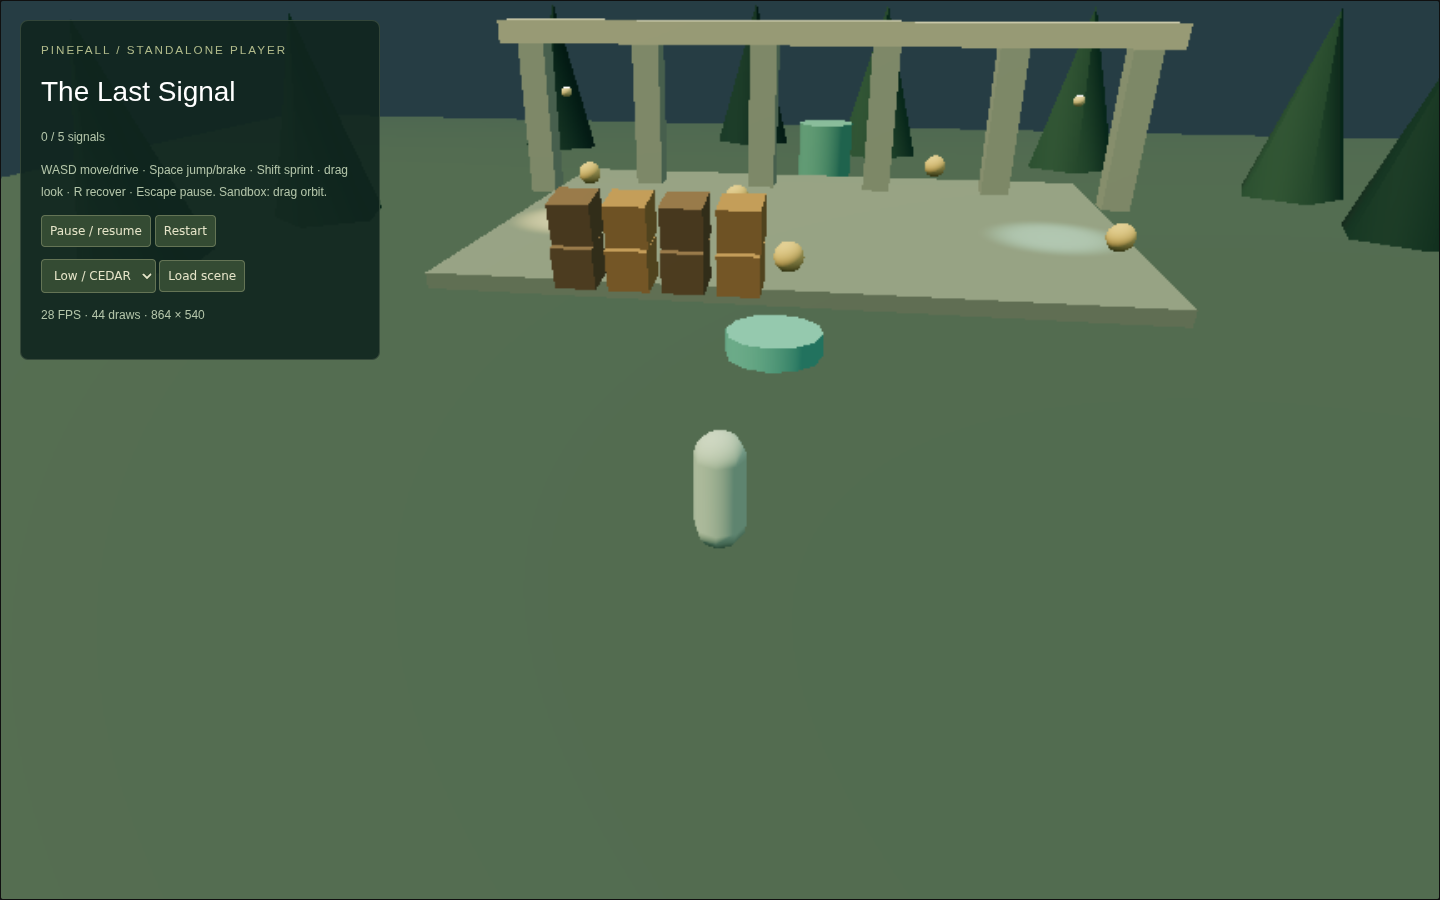
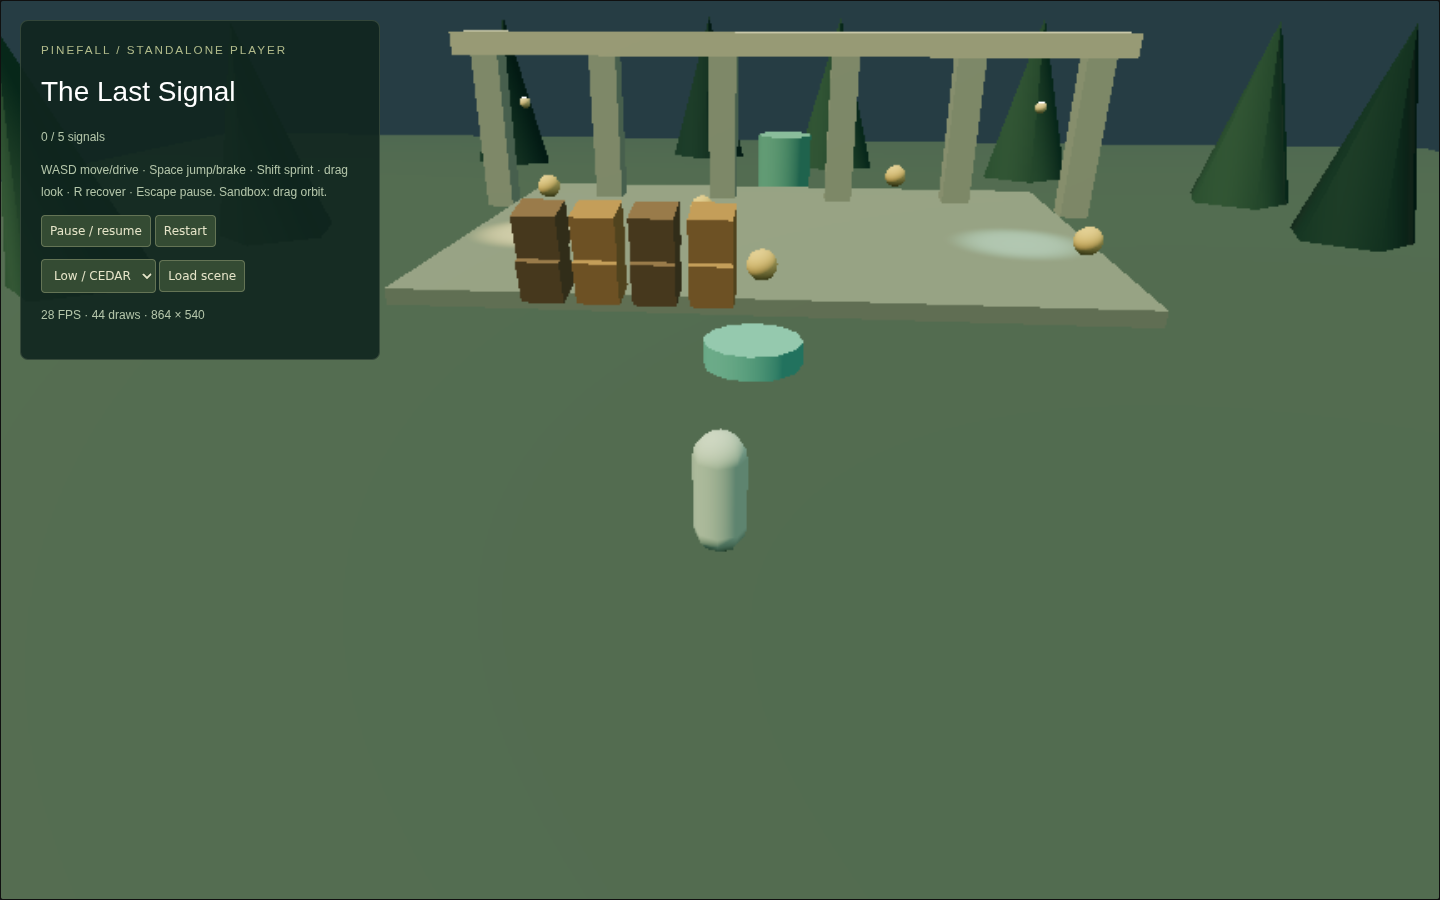
feat: isolate behavior errors, configurable camera rigs, and release CI

Changed region(s): [[0.25, 0.0, 1.0, 0.4356], [0.0, 0.0622, 0.0312, 0.3422], [0.4688, 0.5911, 0.5, 0.6222]]

diff --git a/packages/runtime/src/engine.ts b/packages/runtime/src/engine.ts
@@ -1,3 +1,4 @@
+import { safeBehavior } from "./behavior-safety";
 import * as T from "three";
 import { OrbitControls } from "three/addons/controls/OrbitControls.js";
 import { TransformControls } from "three/addons/controls/TransformControls.js";
@@ -26,7 +27,26 @@ export interface EngineOptions {
   onTransform?: (id: string, transform: Entity["transform"]) => void;
   onStats?: (stats: Stats) => void;
 }
+export type CameraRig = "auto" | "orbit" | "first-person" | "follow" | "vehicle";
 export class Engine {
+  private requestedRig: CameraRig = "auto";
+  get cameraRig(): Exclude<CameraRig, "auto"> {
+    if (this.requestedRig !== "auto") return this.requestedRig;
+    const mode = this.document?.template;
+    return mode === "sandbox"
+      ? "orbit"
+      : mode === "driving"
+        ? "vehicle"
+        : mode === "first-person"
+          ? "first-person"
+          : "follow";
+  }
+  setCameraRig(rig: CameraRig) {
+    this.requestedRig = rig;
+    this.orbit.enabled = !this.playing || this.cameraRig === "orbit";
+    this.events.emit("camera", "Camera rig changed", { rig });
+  }
+
   readonly events = new Events();
   readonly input = new Set<string>();
   readonly objects = new Map<string, T.Group>();
@@ -196,7 +216,7 @@ export class Engine {
         this.options.onSelect?.(this.pick(e.clientX, e.clientY));
     });
     this.listen(window, "pointermove", (event) => {
-      if (!this.playing || this.paused || this.document.template === "sandbox") return;
+      if (!this.playing || this.paused || this.cameraRig === "orbit") return;
       const e = event as PointerEvent;
       if (document.pointerLockElement === this.canvas || this.dragging) {
         this.look.yaw -= e.movementX * 0.003;
@@ -204,7 +224,7 @@ export class Engine {
       }
     });
     this.listen(this.canvas, "dblclick", () => {
-      if (this.playing && this.document.template === "first-person")
+      if (this.playing && this.cameraRig === "first-person")
         void this.canvas
           .requestPointerLock()
           ?.catch(() =>
@@ -421,14 +441,21 @@ export class Engine {
       if (!e.enabled || !e.behavior) continue;
       const factory = this.registry.get(e.behavior);
       if (factory) {
-        const b = factory({ engine: this, entity: e });
+        const b = safeBehavior(factory, { engine: this, entity: e }, (hook, error) =>
+          this.events.emit("error", "Behavior disabled after exception", {
+            entity: e.id,
+            behavior: e.behavior || "",
+            hook,
+            error: String(error).slice(0, 1000),
+          }),
+        );
         this.behaviors.set(e.id, b);
         b.start?.();
       } else this.events.emit("warning", "Behavior not registered: " + e.behavior);
     }
     const player = this.document.entities.find((e) => e.tag === "player");
     if (player) this.checkpoint = [...player.transform.position];
-    this.orbit.enabled = this.document.template === "sandbox";
+    this.orbit.enabled = this.cameraRig === "orbit";
     this.events.emit("gameplay", "Play started — " + this.document.name);
     this.canvas.focus();
   }
@@ -564,13 +591,13 @@ export class Engine {
         object = player && this.objects.get(player.id);
       if (object) {
         if (object.position.y < -20) this.respawn();
-        if (this.document.template === "first-person") {
+        if (this.cameraRig === "first-person") {
           this.camera.position.copy(object.position).add(new T.Vector3(0, 0.55, 0));
           this.camera.rotation.set(this.look.pitch, this.look.yaw, 0, "YXZ");
-        } else {
+        } else if (this.cameraRig !== "orbit") {
           const offset = new T.Vector3(0, 5, 9).applyAxisAngle(
             new T.Vector3(0, 1, 0),
-            this.document.template === "driving" ? object.rotation.y : this.look.yaw,
+            this.cameraRig === "vehicle" ? object.rotation.y : this.look.yaw,
           );
           this.follow.copy(object.position).add(offset);
           this.camera.position.lerp(this.follow, 1 - Math.exp(-5 * dt));
@@ -588,7 +615,7 @@ export class Engine {
         object.visible =
           e.enabled &&
           !this.collected.has(e.id) &&
-          !(this.playing && this.document.template === "first-person" && e.tag === "player") &&
+          !(this.playing && this.cameraRig === "first-person" && e.tag === "player") &&
           this.follow.distanceToSquared(this.camera.position) <
             (this.settings.viewDistance + Math.max(...e.transform.scale) * 2) ** 2;
         if (object.visible) visible++;

diff --git a/tests/runtime-browser.ts b/tests/runtime-browser.ts
@@ -1,0 +1,73 @@
+import { chromium } from "@playwright/test";
+const browser = await chromium.launch({
+  headless: true,
+  args: ["--no-sandbox", "--use-angle=swiftshader", "--enable-unsafe-swiftshader"],
+});
+try {
+  const page = await browser.newPage();
+  await page.goto("http://localhost:5173/tests/runtime.html");
+  const result = await page.evaluate(async () => {
+    const runtimePath = "/packages/runtime/src/index.ts",
+      templatePath = "/examples/templates.ts";
+    const { Engine } = await import(runtimePath),
+      { createTemplate } = await import(templatePath);
+    const engine = await Engine.create(document.querySelector("canvas"));
+    const wait = (ms: number) => new Promise((resolve) => setTimeout(resolve, ms));
+    const check = (ok: boolean, message: string) => {
+      if (!ok) throw Error(message);
+    };
+    try {
+      await engine.load(createTemplate("sandbox"));
+      const count = engine.document.entities.length;
+      engine.play();
+      engine.spawnBox();
+      check(engine.document.entities.length === count + 1, "spawn");
+      await engine.stop();
+      check(engine.document.entities.length === count, "stop restores authored count");
+      await engine.load(createTemplate("adventure"));
+      engine.setCameraRig("orbit");
+      engine.play();
+      check(engine.orbit.enabled, "orbit override");
+      engine.setCameraRig("first-person");
+      check(!engine.orbit.enabled, "first person disables orbit");
+      await wait(150);
+      check(engine.cameraRig === "first-person", "camera override retained");
+      await engine.stop();
+      const scene = createTemplate("adventure");
+      const actor = scene.entities.find((e: { tag?: string }) => e.tag === "player");
+      engine.setCameraRig("auto");
+      await engine.load(scene);
+      engine.play();
+      const before = engine.physics.bodies.get(actor.id).translation().z;
+      engine.input.add("KeyW");
+      await wait(1000);
+      engine.input.clear();
+      check(
+        engine.physics.bodies.get(actor.id).translation().z < before - 0.2,
+        "actual character movement",
+      );
+      await engine.stop();
+      let errors = 0;
+      engine.events.subscribe((e: { type: string; message: string }) => {
+        if (e.type === "error" && e.message.includes("Behavior disabled")) errors++;
+      });
+      engine.registerBehavior("broken", () => ({
+        update() {
+          throw Error("intentional test failure");
+        },
+      }));
+      actor.behavior = "broken";
+      await engine.load(scene);
+      engine.play();
+      await wait(700);
+      check(errors === 1, "one isolated script failure");
+      check(engine.playing, "engine still running");
+      return "PASS: spawn/stop restoration, camera overrides, character movement, custom-script isolation";
+    } finally {
+      engine.dispose();
+    }
+  });
+  console.log(result);
+} finally {
+  await browser.close();
+}

diff --git a/tests/behavior-safety.test.ts b/tests/behavior-safety.test.ts
@@ -1,0 +1,53 @@
+import { test, expect } from "bun:test";
+import { safeBehavior } from "../packages/runtime/src/behavior-safety";
+import type { BehaviorContext } from "../packages/runtime/src/behaviors";
+const context = {} as BehaviorContext;
+test("a throwing script disables once without interrupting others; cleanup still runs", () => {
+  const failures: string[] = [];
+  let calls = 0,
+    cleanups = 0;
+  const script = safeBehavior(
+    () => ({
+      update() {
+        calls++;
+        throw Error("bad script");
+      },
+      dispose() {
+        cleanups++;
+      },
+    }),
+    context,
+    (hook) => failures.push(hook),
+  );
+  script.update?.(0.1);
+  script.update?.(0.1);
+  script.dispose?.();
+  script.dispose?.();
+  expect(calls).toBe(1);
+  expect(cleanups).toBe(1);
+  expect(failures).toEqual(["update"]);
+});
+test("factory and cleanup errors are contained", () => {
+  const failures: string[] = [];
+  const report = (hook: string) => failures.push(hook);
+  expect(() =>
+    safeBehavior(
+      () => {
+        throw Error("factory");
+      },
+      context,
+      report,
+    ),
+  ).not.toThrow();
+  const b = safeBehavior(
+    () => ({
+      dispose() {
+        throw Error("cleanup");
+      },
+    }),
+    context,
+    report,
+  );
+  expect(() => b.dispose?.()).not.toThrow();
+  expect(failures).toEqual(["factory", "dispose"]);
+});

diff --git a/packages/runtime/src/behavior-safety.ts b/packages/runtime/src/behavior-safety.ts
@@ -1,0 +1,49 @@
+import type { Behavior, BehaviorContext, BehaviorFactory } from "./behaviors";
+/** Isolate synchronous script failures. This is not a security sandbox or timeout. */
+export function safeBehavior(
+  factory: BehaviorFactory,
+  context: BehaviorContext,
+  report: (hook: string, error: unknown) => void,
+): Behavior {
+  let behavior: Behavior,
+    failed = false,
+    disposed = false;
+  try {
+    behavior = factory(context);
+  } catch (error) {
+    report("factory", error);
+    return {};
+  }
+  function invoke(hook: keyof Behavior, run: () => void) {
+    if (failed) return;
+    try {
+      run();
+    } catch (error) {
+      failed = true;
+      report(hook, error);
+    }
+  }
+  return {
+    start() {
+      invoke("start", () => behavior.start?.());
+    },
+    fixedUpdate(dt) {
+      invoke("fixedUpdate", () => behavior.fixedUpdate?.(dt));
+    },
+    update(dt) {
+      invoke("update", () => behavior.update?.(dt));
+    },
+    trigger(other, started) {
+      invoke("trigger", () => behavior.trigger?.(other, started));
+    },
+    dispose() {
+      if (disposed) return;
+      disposed = true;
+      try {
+        behavior.dispose?.();
+      } catch (error) {
+        report("dispose", error);
+      }
+    },
+  };
+}

diff --git a/packages/runtime/src/index.ts b/packages/runtime/src/index.ts
@@ -1,5 +1,5 @@
 export { Engine } from "./engine";
-export type { EngineOptions, Stats } from "./engine";
+export type { EngineOptions, Stats, CameraRig } from "./engine";
 export { entity, parseScene, serializeScene, cloneScene, LOW, HIGH } from "./schema";
 export type { Entity, SceneDocument, RenderSettings, Template, Vec3, Asset } from "./schema";
 export { PhysicsSystem, initPhysics } from "./physics";

diff --git a/tests/runtime.html b/tests/runtime.html
@@ -1,0 +1,9 @@
+<!doctype html>
+<html>
+  <head>
+    <title>Runtime integration test</title>
+  </head>
+  <body>
+    <canvas width="640" height="400" style="width: 640px; height: 400px"></canvas>
+  </body>
+</html>

diff --git a/README.md b/README.md
@@ -1,4 +1,4 @@
-# Pinefall Engine 0.1 — experimental foundation
+# Pinefall Engine 0.1.1 — experimental foundation
 
 A separate TypeScript 3D runtime and visual workshop, built with Bun, Three.js, Rapier and React. The original Pinefall game is unchanged. This is a small usable engine foundation, **not Unity feature parity or a production-certified engine**.
 
@@ -55,7 +55,7 @@ engine.play();
 // await engine.stop(); engine.dispose();
 ```
 
-Behavior factories support start, fixedUpdate, update, trigger, and dispose hooks; see `packages/runtime/src/behaviors.ts`. Register trusted code before loading/playing a scene. Scene JSON contains behavior names, never executable code. Runtime camera rigs currently use the scene's template mode; arbitrary camera-component authoring is future work.
+Behavior factories support start, fixedUpdate, update, trigger, and dispose hooks; see `packages/runtime/src/behaviors.ts`. Register trusted code before loading/playing a scene. Scene JSON contains behavior names, never executable code. Camera rigs default to the template mode. Override independently with `engine.setCameraRig("orbit" | "first-person" | "follow" | "vehicle" | "auto")`; overrides are runtime settings, not serialized scene components.
 
 ## Desktop / older GPUs
 
@@ -67,6 +67,23 @@ Binaries are unsigned. Windows packaging is not Windows runtime validation. CEDA
 
 Validated locally: strict TypeScript; Oxlint; 6 unit/physics tests (17 assertions); Chromium/SwiftShader browser smoke covering four-template play/stop, crate spawn, high effects and standalone player, with zero page errors. Screenshots in `docs/` are actual captures. Linux/Windows package generation succeeded; physical-GPU and Windows execution remain unverified. No long-duration memory/performance certification.
 
-This version is deliberately limited: primitive procedural art; no skeletal animation workflow, audio system, navmesh, terrain sculpting, multiplayer, visual scripting, full asset dependency database, packaged per-project exporter, or full scene/component extensibility. Imported assets are loaded again on authored edits rather than incrementally patched. Maximum 500 entities, 8 lights, 16 embedded assets and 8 MB embedded asset strings. Custom behaviors are trusted and can throw; no plugin sandbox. Small desktop viewports hide the inspector; use a desktop-size window for authoring.
+This version is deliberately limited: primitive procedural art; no skeletal animation workflow, audio system, navmesh, terrain sculpting, multiplayer, visual scripting, full asset dependency database, packaged per-project exporter, or full scene/component extensibility. Imported assets are loaded again on authored edits rather than incrementally patched. Maximum 500 entities, 8 lights, 16 embedded assets and 8 MB embedded asset strings. Synchronous custom-behavior exceptions disable that instance and emit a structured error; other instances continue and cleanup still runs. This does not protect against infinite loops, asynchronous rejections, malicious plugins, or throwing event subscribers. Small desktop viewports hide the inspector; use a desktop-size window for authoring.
 
 Generated dependencies, build outputs and packages are rebuildable. No engine GitHub repository/release has been published.
+
+## 0.1.1 additions and publication
+
+- Camera rigs can be selected independently of starter type; switching to orbit no longer forces a follow camera on scenes containing a player.
+- Behavior factory/start/fixed-update/update/trigger/dispose exception isolation with entity, behavior and hook diagnostics.
+- Eight unit/physics tests (23 assertions) pass. Additional real-browser runtime integration verifies spawn/stop restoration, camera override, character movement and script exception isolation (`bun run test:runtime-browser`). Rendering tests use SwiftShader, not physical hardware.
+- Tag-triggered GitHub Actions builds Linux and Windows packages on their respective OS runners, attaches source plus SHA256 sums, and publishes a prerelease only after both packaging jobs succeed. Native gameplay testing is not performed by that workflow.
+
+**Publication remains pending authentication.** From this source folder on your authenticated development machine:
+
+```sh
+gh auth login
+gh repo create abdou-da0wew/Pinefall-Engine --public --source=. --remote=origin --push
+git push origin v0.1.1
+```
+
+If the repository already exists, configure its remote instead of recreating it. GitHub must allow Actions for the release workflow. Do not paste access tokens in chat or store them in source. The 0.1.0 local desktop binaries predate these improvements; CI will build 0.1.1 from its tag.
